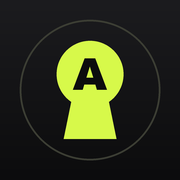
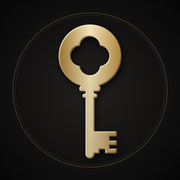
Keyword v3: アイコンを黒地にゴールドのアンティークの鍵に

diff --git a/keyword/sw.js b/keyword/sw.js
@@ -2,7 +2,7 @@
    方針:「ネットワーク優先」。まずネットから最新をとり、とれたものをキャッシュに控える。
    ネットがないときだけキャッシュで動く。キャッシュを先に見る方式にすると
    「直したのに古い画面が出る」事故になるので、ぜったいにしない。 */
-const VER = 'kw-v2';
+const VER = 'kw-v3';
 self.addEventListener('install', e => self.skipWaiting());
 self.addEventListener('activate', e => {
   e.waitUntil((async () => {

diff --git a/keyword/index.html b/keyword/index.html
@@ -206,7 +206,7 @@ input[type=time]{width:auto;}
 <div id="gate" class="hidden"></div>
 
 <script>
-const VER = 2;
+const VER = 3;
 const SITE = 'https://yuki08173123-svg.github.io/study-game/keyword/';
 const UNLOCK_NAME = 'Keyword解除';
 const GATE_NAME = 'Keyword';

diff --git a/tools/keyword-icon.py b/tools/keyword-icon.py
@@ -1,47 +1,102 @@
-# KEYWORD のアイコン：黒地に、ライム色の鍵穴。鍵穴の丸の中に黒い「A」（単語＝鍵）。
+# Keyword のアイコン：黒の地に、シャンパンゴールドのアンティークの鍵（v3〜・ヒラ「もう少し高級感がある鍵に」）。
+# 持ち手は四つ葉の透かし、軸に飾りの輪、先に歯。金属の照りは横方向のグラデーション＋縁の光と影。
 # 実行: python3 tools/keyword-icon.py （study-game から）。keyword/ に書き出す。
-from PIL import Image, ImageDraw, ImageFont
+from PIL import Image, ImageDraw, ImageFilter, ImageChops
 
-S = 1024
-BG = (12, 12, 13)
-BG2 = (28, 28, 31)
-KEY = (215, 249, 74)
+Z = 2048            # 2倍で描いて縮める（縁をなめらかに）
+U = Z / 1024
 
 
-def font(sz):
-    for p in ['/System/Library/Fonts/Supplemental/Arial Black.ttf',
-              '/System/Library/Fonts/Supplemental/Arial Bold.ttf',
-              '/System/Library/Fonts/Helvetica.ttc']:
-        try:
-            return ImageFont.truetype(p, sz)
-        except OSError:
-            pass
-    return ImageFont.load_default()
+def u(v):
+    return v * U
+
+
+def key_mask(sc):
+    m = Image.new('L', (Z, Z), 0)
+    d = ImageDraw.Draw(m)
+    c = Z / 2
+
+    def P(x, y):
+        return (c + (u(x) - c) * sc, c + (u(y) - c) * sc)
+
+    def circ(x, y, r, fill):
+        (a, b), rr = P(x, y), u(r) * sc
+        d.ellipse([a - rr, b - rr, a + rr, b + rr], fill=fill)
+
+    def rect(x0, y0, x1, y1, fill, r=0):
+        a, b = P(x0, y0); e, f = P(x1, y1)
+        d.rounded_rectangle([a, b, e, f], u(r) * sc, fill=fill)
+
+    # 持ち手（輪）
+    circ(512, 318, 178, 255)
+    # 四つ葉の透かし
+    for dx, dy in ((0, -52), (0, 52), (-52, 0), (52, 0)):
+        circ(512 + dx, 318 + dy, 58, 0)
+    circ(512, 318, 40, 0)
+    # 首の飾り（輪を2つ）
+    rect(452, 488, 572, 520, 255, 14)
+    rect(470, 534, 554, 556, 255, 10)
+    # 軸
+    rect(487, 480, 537, 880, 255, 10)
+    # 先の歯（板に切れこみ）
+    rect(512, 748, 664, 872, 255, 8)
+    rect(624, 776, 666, 800, 0)          # 右の切れこみ（上）
+    rect(624, 826, 666, 846, 0)          # 右の切れこみ（下）
+    rect(566, 850, 598, 874, 0)          # 下の切れこみ
+    # 軸の先の丸み
+    circ(512, 876, 25, 255)
+    return m
+
+
+def metal(size):
+    # 横方向に明暗の帯をくり返す（シャンパンゴールド）
+    stops = [(0.00, (120, 88, 40)), (0.18, (232, 205, 140)), (0.34, (170, 130, 62)),
+             (0.50, (255, 240, 198)), (0.66, (190, 150, 78)), (0.82, (240, 214, 150)),
+             (1.00, (128, 94, 42))]
+    g = Image.new('RGB', (size, 1))
+    for x in range(size):
+        t = x / (size - 1)
+        for (a, ca), (b, cb) in zip(stops, stops[1:]):
+            if a <= t <= b:
+                k = (t - a) / (b - a)
+                g.putpixel((x, 0), tuple(int(ca[i] + (cb[i] - ca[i]) * k) for i in range(3)))
+                break
+    g = g.resize((size, size))
+    # 上を明るく、下を少し暗く
+    v = Image.linear_gradient('L').resize((size, size))
+    dark = Image.new('RGB', (size, size), (70, 50, 20))
+    return Image.composite(dark, g, v.point(lambda p: int(p * 0.35)))
+
+
+def background(sc_ring):
+    bg = Image.new('RGB', (Z, Z), (6, 6, 7))
+    # 中央をほんのり明るく
+    glow = Image.radial_gradient('L').resize((Z, Z))
+    lift = Image.new('RGB', (Z, Z), (34, 32, 30))
+    bg = Image.composite(bg, lift, glow)
+    d = ImageDraw.Draw(bg)
+    c, r = Z / 2, u(440) * sc_ring
+    d.ellipse([c - r, c - r, c + r, c + r], outline=(92, 74, 40), width=int(u(3)))
+    r2 = r - u(14) * sc_ring
+    d.ellipse([c - r2, c - r2, c + r2, c + r2], outline=(52, 44, 28), width=int(u(2)))
+    return bg
 
 
 def make(full=True):
-    im = Image.new('RGB', (S, S), BG)
-    d = ImageDraw.Draw(im)
-    for y in range(S):
-        k = y / S
-        d.line([(0, y), (S, y)], fill=tuple(int(BG2[i] * (1 - k) + BG[i] * k) for i in range(3)))
-    sc = 1.0 if full else 0.78
-    c = S / 2
-
-    def P(x, y):
-        return (c + (x - c) * sc, c + (y - c) * sc)
-    # 細い輪
-    rr = 400 * sc
-    d.ellipse([c - rr, c - rr, c + rr, c + rr], outline=(60, 62, 52), width=int(10 * sc))
-    # 鍵穴：丸＋下に広がる台形
-    cx, cy, r = c, c - 90 * sc, 190 * sc
-    d.polygon([P(c - 70, 400), P(c + 70, 400), P(c + 150, 790), P(c - 150, 790)], fill=KEY)
-    d.ellipse([cx - r, cy - r, cx + r, cy + r], fill=KEY)
-    # 丸の中の A
-    f = font(int(250 * sc))
-    bb = d.textbbox((0, 0), 'A', font=f)
-    w, h = bb[2] - bb[0], bb[3] - bb[1]
-    d.text((cx - w / 2 - bb[0], cy - h / 2 - bb[1]), 'A', font=f, fill=BG)
+    sc = 1.0 if full else 0.8
+    im = background(sc)
+    m = key_mask(sc)
+    # 影
+    sh = m.filter(ImageFilter.GaussianBlur(u(18)))
+    sh = ImageChops.offset(sh, int(u(10)), int(u(16))).point(lambda p: int(p * 0.75))
+    im = Image.composite(Image.new('RGB', (Z, Z), (0, 0, 0)), im, sh)
+    # 金属
+    im.paste(metal(Z), (0, 0), m)
+    # 縁の光（左上）と影（右下）
+    hi = ImageChops.subtract(m, ImageChops.offset(m, int(u(4)), int(u(4)))).filter(ImageFilter.GaussianBlur(u(1.5)))
+    lo = ImageChops.subtract(m, ImageChops.offset(m, -int(u(5)), -int(u(5)))).filter(ImageFilter.GaussianBlur(u(2)))
+    im = Image.composite(Image.new('RGB', (Z, Z), (255, 246, 214)), im, hi.point(lambda p: int(p * 0.85)))
+    im = Image.composite(Image.new('RGB', (Z, Z), (74, 52, 20)), im, lo.point(lambda p: int(p * 0.8)))
     return im
 
 
